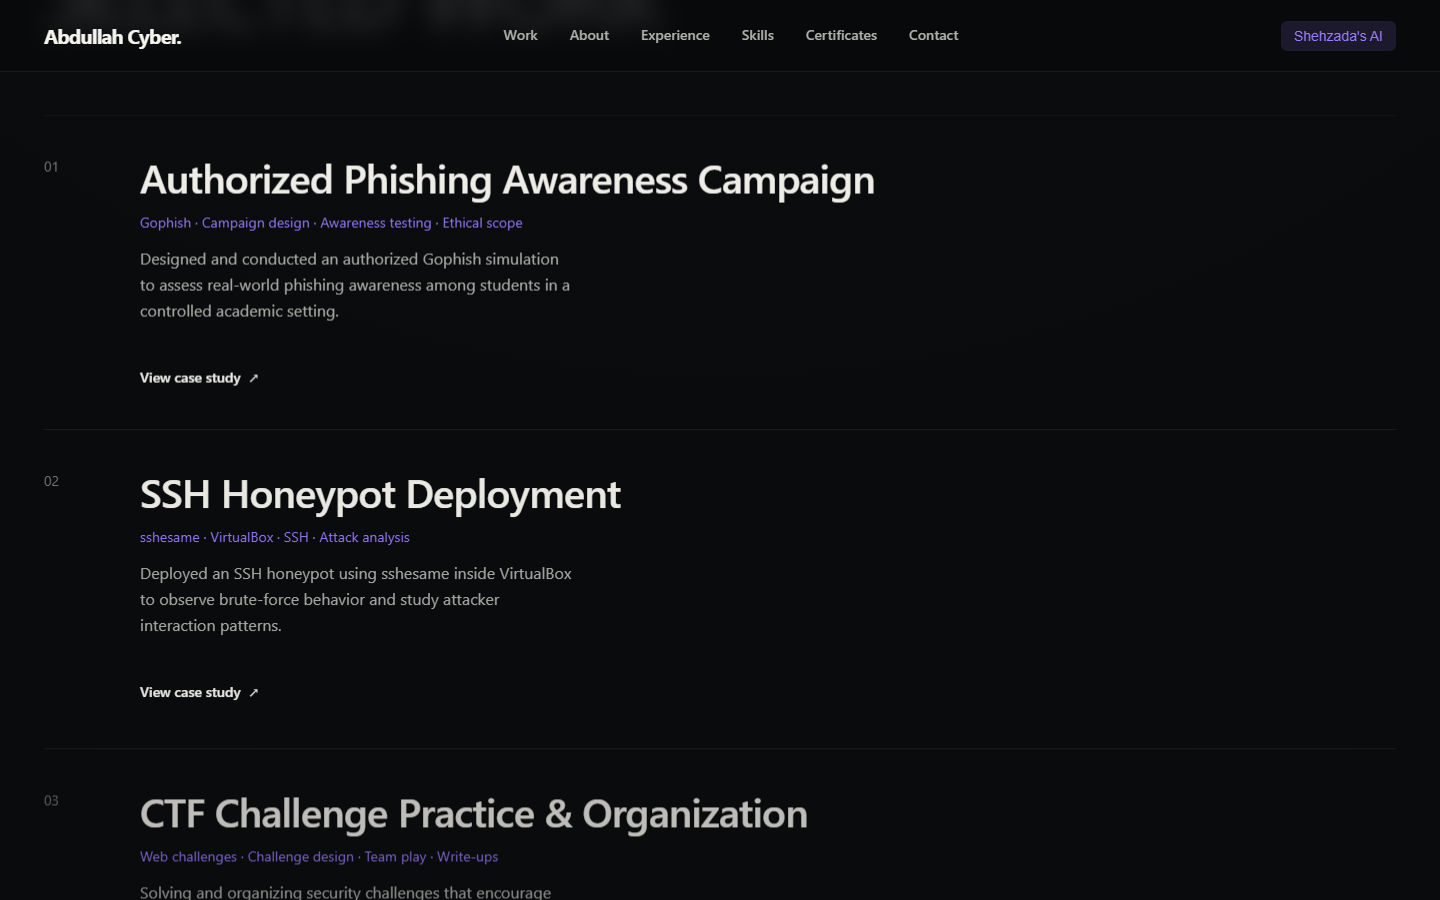
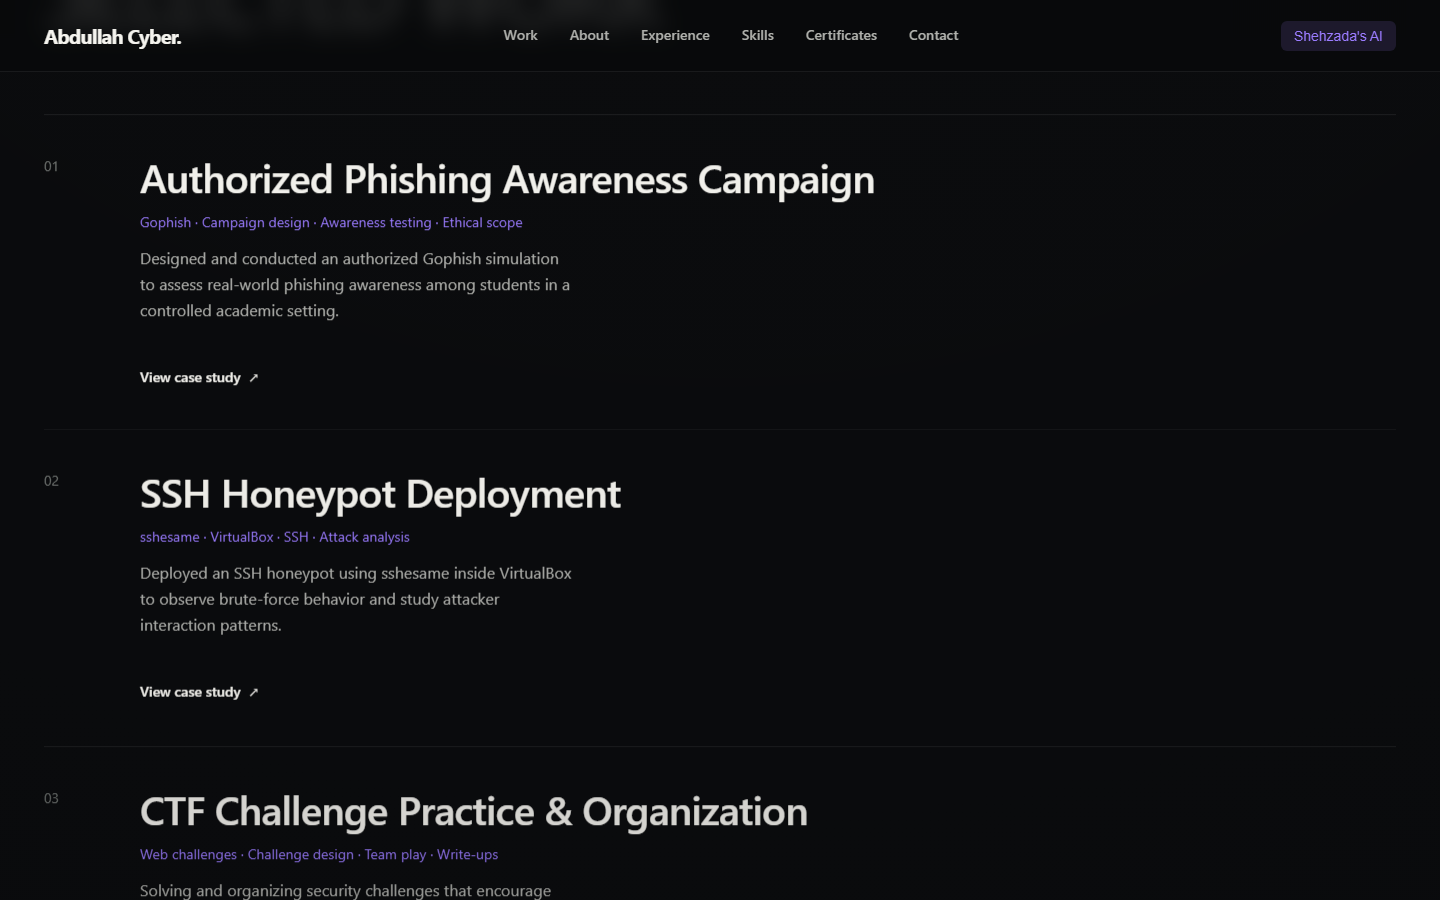
Fix section anchor offsets below fixed navigation

diff --git a/src/style.css b/src/style.css
@@ -38,9 +38,14 @@
 
 html {
   scroll-behavior: smooth;
+  scroll-padding-top: 96px;
   font-size: 16px;
   background: var(--bg);
   color: var(--text-secondary);
+}
+
+section[id] {
+  scroll-margin-top: 96px;
 }
 
 body {
@@ -677,6 +682,14 @@ footer {
 }
 
 @media (max-width: 767px) {
+  html {
+    scroll-padding-top: 88px;
+  }
+
+  section[id] {
+    scroll-margin-top: 88px;
+  }
+
   .desktop-nav {
     display: none;
   }
